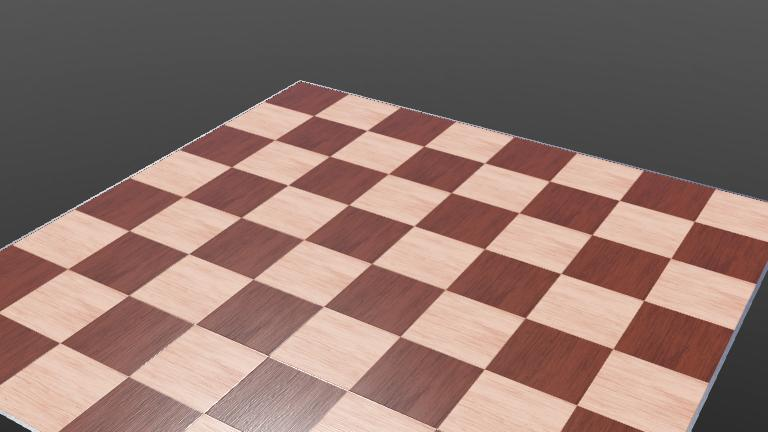
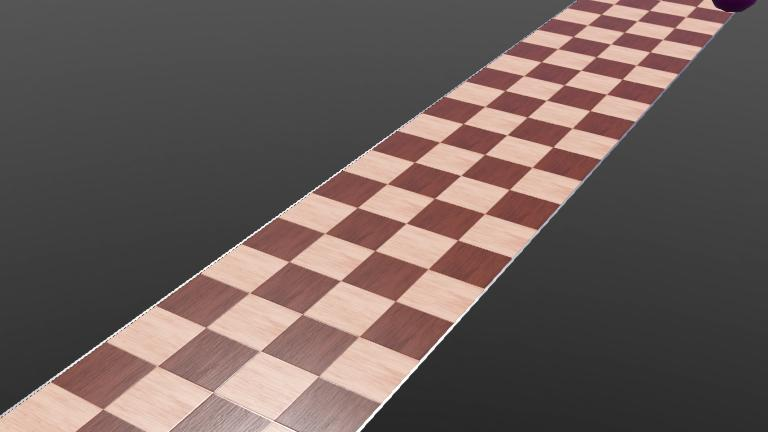
Added move obstacle functionality

diff --git a/mqtt/obstacleRegistry.py b/mqtt/obstacleRegistry.py
@@ -16,9 +16,18 @@ persistFlag = 1
 
 HOSTNAME = "localhost"
 
+# Exceptions
+class doesNotExist(Exception):
+    1==1
+
 # Functions
 def publishRegistry(obstacles):
     publish.single("OR/COMPLETE_REGISTRY", json.dumps(obstacles), hostname=HOSTNAME)
+def printOR():
+    print(f"obstacleCount:{obstacleCount}")
+    for obstacle in obstacles:
+        print("\t",obstacle)
+ 
 # The callback for when the client receives a CONNACK response from the server.
 def on_connect(client, userdata, flags, reason_code, properties):
     print(f"obstacle_registry: Connected with result code {reason_code}")
@@ -45,11 +54,12 @@ def on_message(client, userdata, msg):
                         print("TERM command received, lowering persist flag")
                         persistFlag = 0
                     case "SPIT":
-                        print(f"obstacleCount:{obstacleCount}")
-                        for obstacle in obstacles:
-                            print("\t",obstacle)
-                        publishRegistry(obstacles)
+                       printOR()
+                       publishRegistry(obstacles)
+                    case _:
+                        print("Unacounted for command:",decoded_payload)
             case "OR/NEW":
+                # USed to receive new payloads
                 id = obstacleCount
                 obstacleCount += 1
                 try:
@@ -59,6 +69,25 @@ def on_message(client, userdata, msg):
                     obstacles.append({"id":id,"payload":str(msg.payload.decode("utf-8"))})
                 
                 print(f'added obstacle:"{obstacles[-1]}"')
+
+            case "OR/MOVE":
+                try:
+                    updatedObstacle = json.loads(msg.payload)
+                    obstacleExistsFlag = False
+                    for obstacle in obstacles:
+                        if obstacle["id"] == updatedObstacle["id"]:
+                            obstacle["payload"] = updatedObstacle["payload"]
+                            print("Updated obstacle:",obstacle)
+                            obstacleExistsFlag = True
+                            break
+                    if obstacleExistsFlag: return
+                    raise doesNotExist("Obstacle doesn't exist")
+                except doesNotExist as e:
+                    print(e)
+                    print("Creating obstacle instead")
+                    obstacles.append(updatedObstacle)
+                except Exception as e:
+                    print("Failed updating obstacle:",e)
 
             case "OR/REM":
                 try:
@@ -83,6 +112,8 @@ try:
     obstacleCount = int(obstacles[-1]["id"]) + 1
 except Exception as e:
     print("Recovering obstacle count failed:",e)
+
+printOR()
 
 mqttc = mqtt.Client(mqtt.CallbackAPIVersion.VERSION2)
 mqttc.on_connect = on_connect

diff --git a/webot_sim_env/controllers/simulateObstacles/simulateObstacles.py b/webot_sim_env/controllers/simulateObstacles/simulateObstacles.py
@@ -44,12 +44,25 @@ def on_message(client, userdata, msg):
 
             for obstacle in obstacles:
                 print(PRFX,obstacle)
-                create_obstacle(obstacle)
-                
+                try:
+                    create_obstacle(obstacle)
+                except AttributeError as e:
+                    remove_obstacle(obstacle["id"])
+                    print(PRFX,e)
+                except Exception as e:
+                    print(PRFX,e)
+                     
+
         case "OR/NEW":
-            obstacle = json.loads(msg.payload)
-            formattedObstacle = {"id":get_new_id(),"payload":obstacle}
-            create_obstacle(formattedObstacle)
+            try:
+                obstacle = json.loads(msg.payload)
+                formattedObstacle = {"id":get_new_id(),"payload":obstacle}
+                create_obstacle(formattedObstacle)
+            except json.decoder.JSONDecodeError as exception:
+                print(PRFX,exception)
+            except Exception as exception:
+                print(PRFX,exception)                 
+
         case "OR/REM":
             remove_obstacle(int(msg.payload))
         case _:
@@ -66,6 +79,8 @@ def get_new_id(obstacleCache=obstacleCache):
 
 def create_obstacle(obstacle):
     
+    if isinstance(obstacle["payload"],str): print(PRFX,"Atribute error caught. Object not created"); return
+
     # Create base object
     obstacleString = f"DEF obstacle_{obstacle["id"]} " + " Pose { translation 0 0 0 children [ Shape {geometry Box {size 0.1 0.1 0.1} appearance PBRAppearance {baseColor 1 0 0 metalness 0} } ] }" 
     selfChildren.importMFNodeFromString(-1, obstacleString)
@@ -94,10 +109,8 @@ def remove_obstacle(obstacleID):
                         if obstacle["id"] == obstacleID: 
                             print(PRFX,f'removing obstacle:"{obstacle}"')
                             obstacle["node"].remove()
-                   
-
                 except Exception as e:
-                        print("Obstacle removal error:"+'"'+msg.payload.decode("utf-8")+'"',e)
+                        print(PRFX,"Obstacle removal error:"+'"'+msg.payload.decode("utf-8")+'"',e)
 
 def remove_all_obstacles():
     global obstacleCache